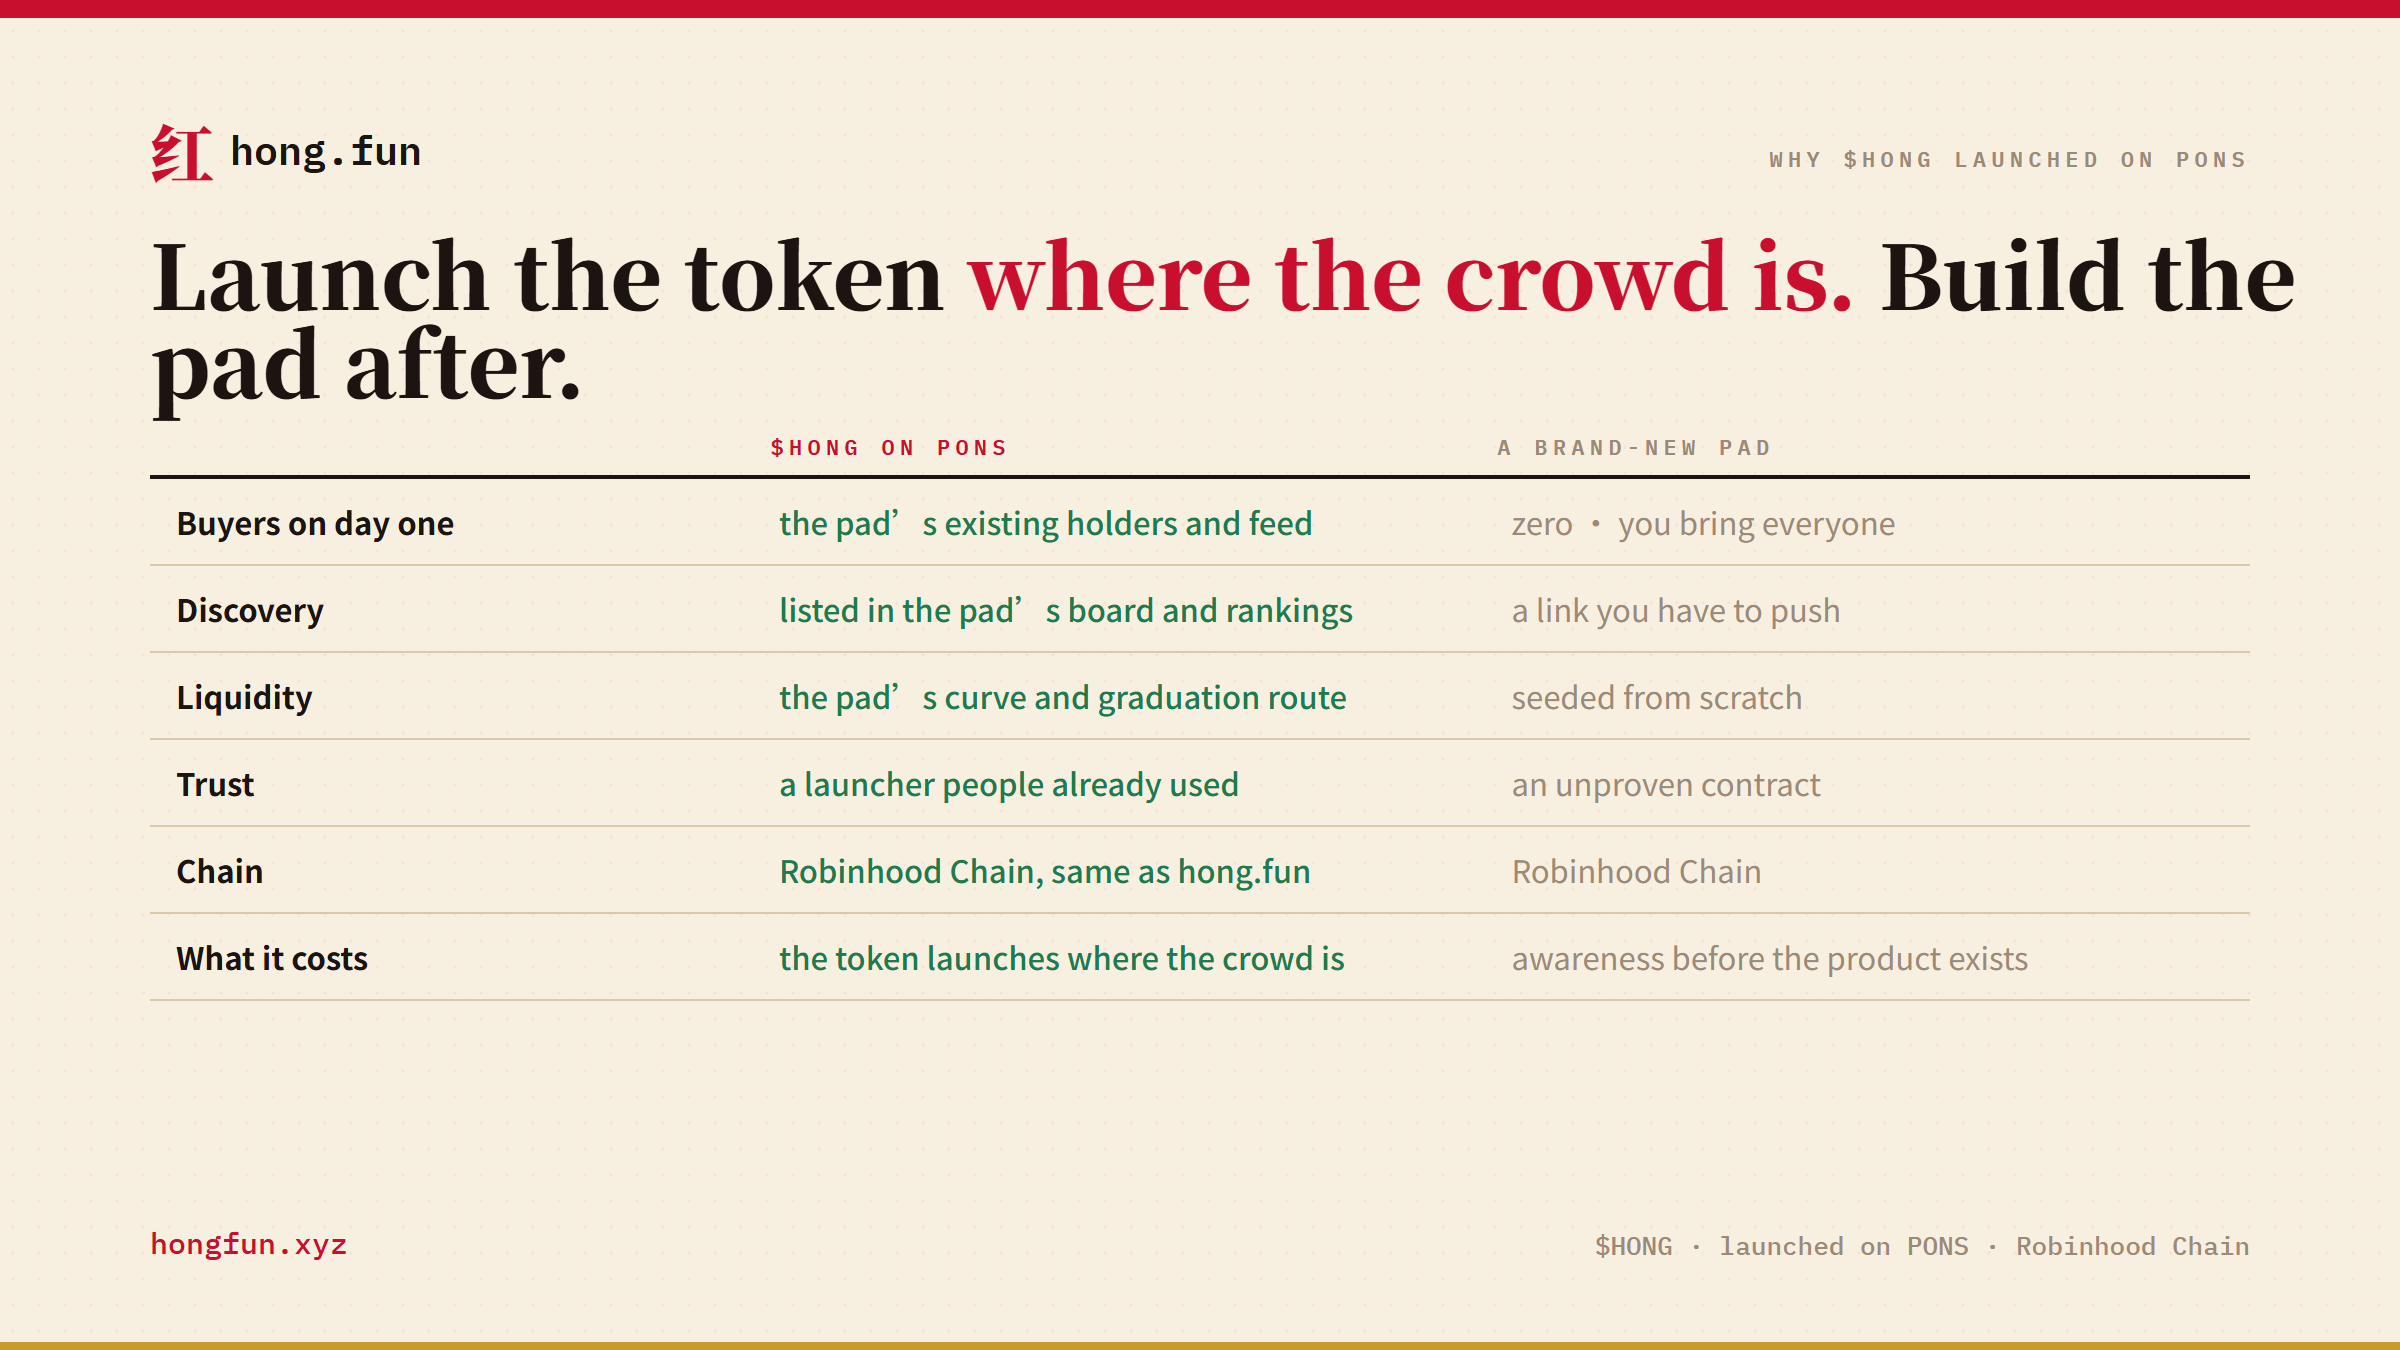
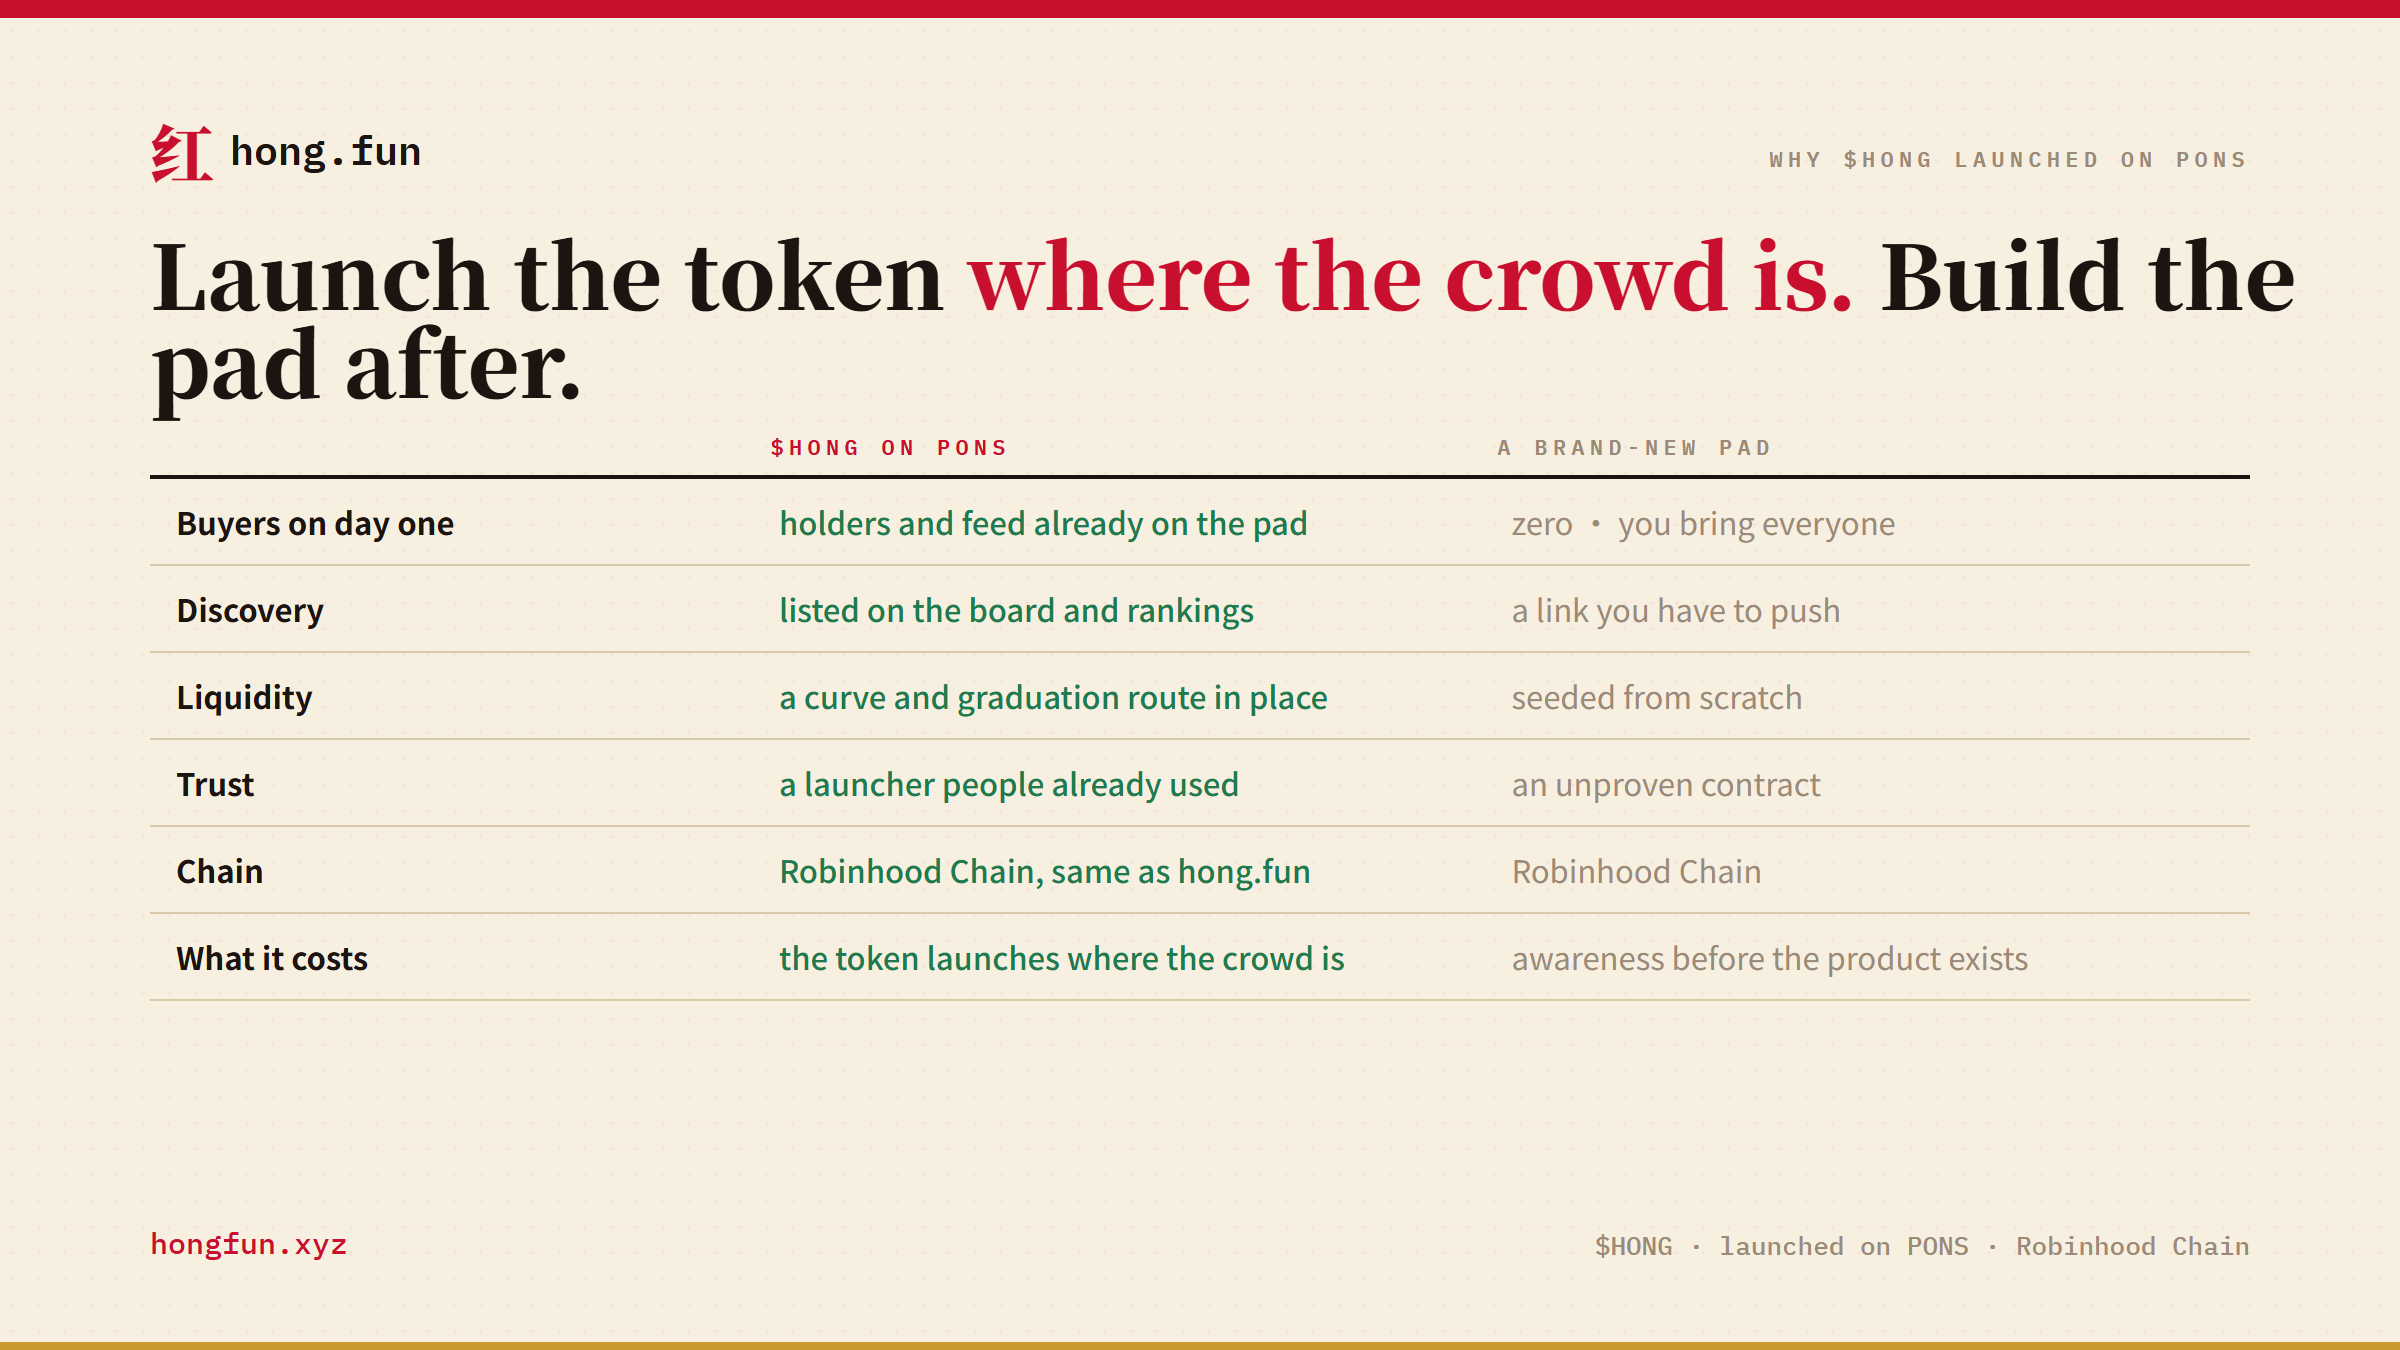
PONS graphic copy fix

Changed region(s): [[0.3125, 0.4978, 0.5625, 0.5289], [0.3125, 0.3733, 0.5625, 0.4044], [0.375, 0.4356, 0.5625, 0.4667]]

diff --git a/_studio/build.js b/_studio/build.js
@@ -70,7 +70,7 @@ wrap('hongfun-vs', 2400, 1350, `<div style="position:absolute;left:150px;top:100
 console.log('built 6');
 
 // PONS launch: initial awareness on an established Robinhood Chain pad vs a brand-new one
-const PONS = [['Buyers on day one', 'the pad's existing holders and feed', 'zero · you bring everyone'], ['Discovery', 'listed in the pad's board and rankings', 'a link you have to push'], ['Liquidity', 'the pad's curve and graduation route', 'seeded from scratch'], ['Trust', 'a launcher people already used', 'an unproven contract'], ['Chain', 'Robinhood Chain, same as hong.fun', 'Robinhood Chain'], ['What it costs', 'the token launches where the crowd is', 'awareness before the product exists']];
+const PONS = [['Buyers on day one', 'holders and feed already on the pad', 'zero · you bring everyone'], ['Discovery', 'listed on the board and rankings', 'a link you have to push'], ['Liquidity', 'a curve and graduation route in place', 'seeded from scratch'], ['Trust', 'a launcher people already used', 'an unproven contract'], ['Chain', 'Robinhood Chain, same as hong.fun', 'Robinhood Chain'], ['What it costs', 'the token launches where the crowd is', 'awareness before the product exists']];
 wrap('hongfun-pons', 2400, 1350, `<div style="position:absolute;left:150px;top:100px">${logo()}</div><div class="k" style="position:absolute;right:150px;top:126px">WHY $HONG LAUNCHED ON PONS</div>
   <div class="serif" style="position:absolute;left:150px;top:210px;font-size:88px;line-height:1">Launch the token <span class="red">where the crowd is.</span> Build the pad after.</div>
   <div style="position:absolute;left:150px;right:150px;top:400px">
